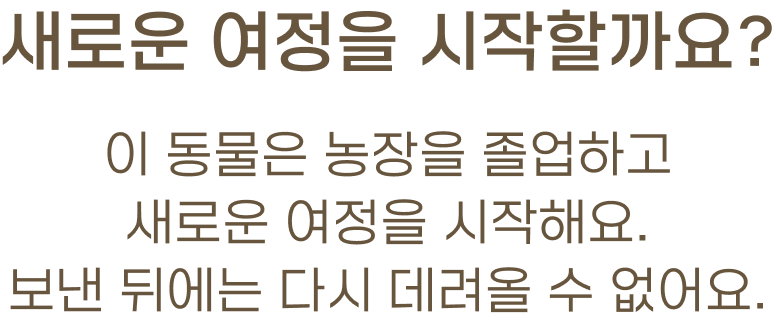
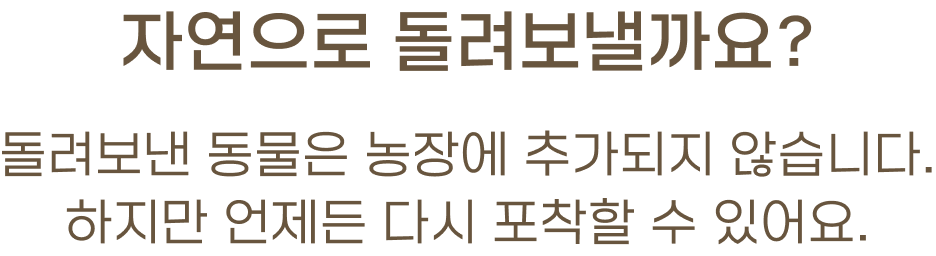
style : 농장 확인 모달 디자인 수정
- 농장 확장 모달 이미지와 버튼 배치를 조정
- 동물 방생 알림의 이미지와 크기 및 오버레이를 변경
- 이미지에 포함된 문구와 중복되는 텍스트를 제거

diff --git a/src/shared/ui/ReleaseCreatureAlert.tsx b/src/shared/ui/ReleaseCreatureAlert.tsx
@@ -3,31 +3,25 @@ import {
   Image,
   Pressable,
   StyleSheet,
-  Text,
   View,
 } from 'react-native';
 
 import { scaleByDeviceWidth } from '@/src/shared/lib/layout';
 
 const ALERT_IMAGE = require('@/src/shared/assets/images/release-creature-alert.png');
-const ALERT_HEADER_IMAGE = require('@/src/shared/assets/images/release-creature-alert-header.png');
 const ALERT_TEXT_IMAGE = require('@/src/shared/assets/images/release-creature-alert-text.png');
 const CANCEL_BUTTON_IMAGE = require('@/src/shared/assets/images/release-creature-cancel-button.png');
 const CONFIRM_BUTTON_IMAGE = require('@/src/shared/assets/images/release-creature-confirm-button.png');
 const ALERT_WIDTH = scaleByDeviceWidth(280);
-const ALERT_HEIGHT = scaleByDeviceWidth(287);
-const HEADER_TOP = scaleByDeviceWidth(24);
-const HEADER_WIDTH = scaleByDeviceWidth(245.42);
-const HEADER_HEIGHT = scaleByDeviceWidth(81.81);
-const CONTENT_GAP = scaleByDeviceWidth(16);
-const TEXT_WIDTH = scaleByDeviceWidth(194);
-const TEXT_HEIGHT = scaleByDeviceWidth(81);
-const BUTTON_TOP =
-  HEADER_TOP + HEADER_HEIGHT + CONTENT_GAP + TEXT_HEIGHT + CONTENT_GAP;
-const BUTTON_WIDTH = scaleByDeviceWidth(105.15);
-const BUTTON_HEIGHT = scaleByDeviceWidth(42);
+const ALERT_HEIGHT = ALERT_WIDTH * (800 / 1120);
+const TEXT_WIDTH = scaleByDeviceWidth(234);
+const TEXT_HEIGHT = TEXT_WIDTH * (256 / 936);
+const TEXT_TOP = scaleByDeviceWidth(30);
+const TEXT_BUTTON_GAP = scaleByDeviceWidth(15);
+const BUTTON_WIDTH = scaleByDeviceWidth(105.25);
+const BUTTON_HEIGHT = BUTTON_WIDTH * (168 / 421);
 const BUTTON_GAP = scaleByDeviceWidth(8);
-const CLOSE_SIZE = scaleByDeviceWidth(40);
+const CLOSE_SIZE = scaleByDeviceWidth(36);
 
 type ReleaseCreatureAlertProps = {
   isConfirming?: boolean;
@@ -48,14 +42,9 @@ export function ReleaseCreatureAlert({
     >
       <View style={styles.alert}>
         <Image
-          resizeMode="stretch"
+          resizeMode="contain"
           source={ALERT_IMAGE}
           style={styles.alertImage}
-        />
-        <Image
-          resizeMode="contain"
-          source={ALERT_HEADER_IMAGE}
-          style={styles.headerImage}
         />
         <Image
           resizeMode="contain"
@@ -77,10 +66,9 @@ export function ReleaseCreatureAlert({
               source={CANCEL_BUTTON_IMAGE}
               style={styles.actionButtonImage}
             />
-            <Text style={styles.cancelButtonText}>취소하기</Text>
           </Pressable>
           <Pressable
-            accessibilityLabel="여정 보내기"
+            accessibilityLabel="돌려보내기"
             disabled={isConfirming}
             onPress={onConfirm}
             style={({ pressed }) => [
@@ -94,7 +82,7 @@ export function ReleaseCreatureAlert({
               style={styles.actionButtonImage}
             />
             {isConfirming && (
-              <ActivityIndicator color="#684500" size="small" />
+              <ActivityIndicator color="#FFFFFF" size="small" />
             )}
           </Pressable>
         </View>
@@ -107,10 +95,7 @@ export function ReleaseCreatureAlert({
             styles.closeButton,
             pressed && styles.pressed,
           ]}
-        >
-          <View style={[styles.closeLine, styles.closeLineForward]} />
-          <View style={[styles.closeLine, styles.closeLineBackward]} />
-        </Pressable>
+        />
       </View>
     </View>
   );
@@ -122,7 +107,7 @@ const styles = StyleSheet.create({
     zIndex: 100,
     alignItems: 'center',
     justifyContent: 'center',
-    backgroundColor: 'rgba(13, 18, 23, 0.68)',
+    backgroundColor: '#0D1217',
   },
   alert: {
     width: ALERT_WIDTH,
@@ -132,23 +117,16 @@ const styles = StyleSheet.create({
     width: ALERT_WIDTH,
     height: ALERT_HEIGHT,
   },
-  headerImage: {
-    position: 'absolute',
-    top: HEADER_TOP,
-    alignSelf: 'center',
-    width: HEADER_WIDTH,
-    height: HEADER_HEIGHT,
-  },
   textImage: {
     position: 'absolute',
-    top: HEADER_TOP + HEADER_HEIGHT + CONTENT_GAP,
+    top: TEXT_TOP,
     alignSelf: 'center',
     width: TEXT_WIDTH,
     height: TEXT_HEIGHT,
   },
   buttonRow: {
     position: 'absolute',
-    top: BUTTON_TOP,
+    top: TEXT_TOP + TEXT_HEIGHT + TEXT_BUTTON_GAP,
     alignSelf: 'center',
     flexDirection: 'row',
     columnGap: BUTTON_GAP,
@@ -164,36 +142,13 @@ const styles = StyleSheet.create({
     width: BUTTON_WIDTH,
     height: BUTTON_HEIGHT,
   },
-  cancelButtonText: {
-    color: '#684500',
-    fontFamily: 'EliceDXNeolli-Medium',
-    fontSize: scaleByDeviceWidth(12),
-    lineHeight: scaleByDeviceWidth(16),
-    includeFontPadding: false,
-    textAlign: 'center',
-  },
   closeButton: {
     position: 'absolute',
     zIndex: 2,
-    top: scaleByDeviceWidth(6),
-    right: scaleByDeviceWidth(5),
+    top: scaleByDeviceWidth(13),
+    right: scaleByDeviceWidth(7),
     width: CLOSE_SIZE,
     height: CLOSE_SIZE,
-    alignItems: 'center',
-    justifyContent: 'center',
-  },
-  closeLine: {
-    position: 'absolute',
-    width: scaleByDeviceWidth(17),
-    height: scaleByDeviceWidth(2.5),
-    borderRadius: scaleByDeviceWidth(1.25),
-    backgroundColor: '#A7A8A0',
-  },
-  closeLineForward: {
-    transform: [{ rotate: '45deg' }],
-  },
-  closeLineBackward: {
-    transform: [{ rotate: '-45deg' }],
   },
   pressed: {
     opacity: 0.55,

diff --git a/src/features/unlock-farm-area/ui/FarmExpansionModal.tsx b/src/features/unlock-farm-area/ui/FarmExpansionModal.tsx
@@ -4,7 +4,6 @@ import {
   Modal,
   Pressable,
   StyleSheet,
-  Text,
   View,
 } from 'react-native';
 
@@ -15,10 +14,12 @@ const TEXT_IMAGE = require('@/src/shared/assets/images/farm/farm-expansion-text.
 const CANCEL_BUTTON_IMAGE = require('@/src/shared/assets/images/farm/farm-expansion-cancel-button.png');
 const CONFIRM_BUTTON_IMAGE = require('@/src/shared/assets/images/farm/farm-expansion-confirm-button.png');
 const MODAL_WIDTH = scaleByDeviceWidth(280);
-const MODAL_HEIGHT = scaleByDeviceWidth(181);
+const MODAL_HEIGHT = MODAL_WIDTH * (832 / 1120);
 const TEXT_WIDTH = scaleByDeviceWidth(191);
 const TEXT_HEIGHT = scaleByDeviceWidth(86);
-const BUTTON_WIDTH = scaleByDeviceWidth(105.25);
+const TEXT_TOP = scaleByDeviceWidth(30);
+const TEXT_BUTTON_GAP = scaleByDeviceWidth(16);
+const BUTTON_WIDTH = scaleByDeviceWidth(126);
 const BUTTON_HEIGHT = scaleByDeviceWidth(42);
 
 type FarmExpansionModalProps = {
@@ -49,7 +50,7 @@ export function FarmExpansionModal({
       >
         <View style={styles.modal}>
           <Image
-            resizeMode="stretch"
+            resizeMode="contain"
             source={MODAL_IMAGE}
             style={styles.modalImage}
           />
@@ -74,7 +75,6 @@ export function FarmExpansionModal({
                 source={CANCEL_BUTTON_IMAGE}
                 style={styles.actionButtonImage}
               />
-              <Text style={styles.buttonText}>취소하기</Text>
             </Pressable>
             <Pressable
               accessibilityLabel="1000코인 사용"
@@ -93,9 +93,7 @@ export function FarmExpansionModal({
               />
               {isConfirming ? (
                 <ActivityIndicator color="#684500" size="small" />
-              ) : (
-                <Text style={styles.buttonText}>1000코인 사용</Text>
-              )}
+              ) : null}
             </Pressable>
           </View>
           <Pressable
@@ -132,17 +130,17 @@ const styles = StyleSheet.create({
   },
   textImage: {
     position: 'absolute',
-    top: scaleByDeviceWidth(27),
+    top: TEXT_TOP,
     alignSelf: 'center',
     width: TEXT_WIDTH,
     height: TEXT_HEIGHT,
   },
   buttonRow: {
     position: 'absolute',
-    bottom: scaleByDeviceWidth(10),
+    top: TEXT_TOP + TEXT_HEIGHT + TEXT_BUTTON_GAP,
     alignSelf: 'center',
     flexDirection: 'row',
-    columnGap: scaleByDeviceWidth(8),
+    columnGap: scaleByDeviceWidth(4),
   },
   actionButton: {
     width: BUTTON_WIDTH,
@@ -154,14 +152,6 @@ const styles = StyleSheet.create({
     ...StyleSheet.absoluteFillObject,
     width: BUTTON_WIDTH,
     height: BUTTON_HEIGHT,
-  },
-  buttonText: {
-    color: '#684500',
-    fontFamily: 'EliceDXNeolli-Medium',
-    fontSize: scaleByDeviceWidth(12),
-    lineHeight: scaleByDeviceWidth(16),
-    includeFontPadding: false,
-    textAlign: 'center',
   },
   closeButton: {
     position: 'absolute',
